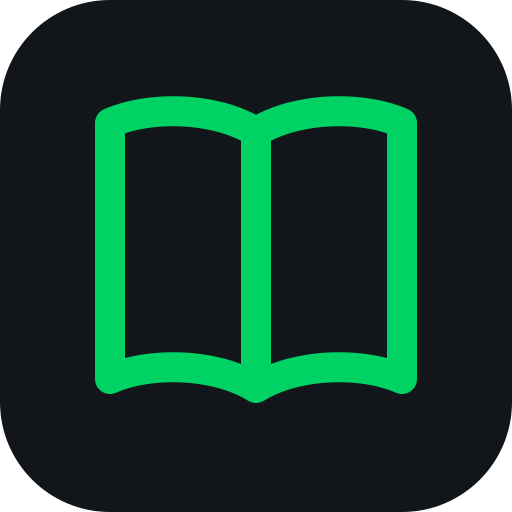
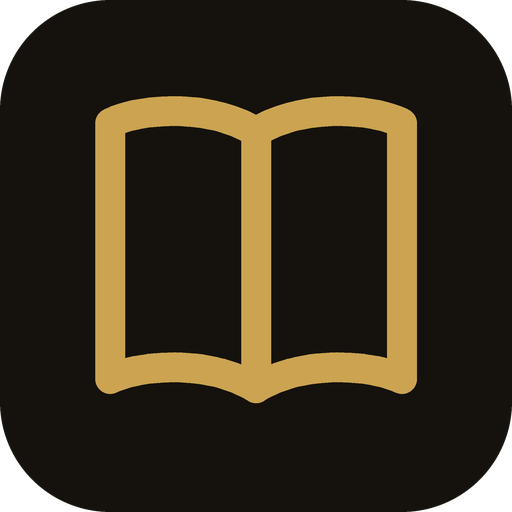
Assets de marque à l'identité Reliure : icônes PWA + image de partage
Fin de l'angle mort signalé par l'audit — seul le favicon SVG était à jour, tout le
reste (install PWA, aperçus sociaux, notifications) servait encore le vert néon.

- icon-192 / icon-512 / icon-maskable-512 / apple-touch-icon régénérés : livre
  ouvert doré (#cba351) sur noir chaud (#15120d), rasterisés en Python/PIL depuis
  la géométrie d'icon.svg (les axes de Bézier échantillonnés) — pas de dépendance,
  déterministe. Maskable avec zone sûre à 66 %, apple sans arrondi (iOS masque).
- og.png (1200×630) refait en Reliure : dégradé noir chaud, marque « Tome. » +
  livre doré, titre serif (« journal » en italique doré), sous-titre, eyebrow
  « LIVRES · BD · MANGA », montome.fr, filet doré.
- sw.js : CACHE tome-v10 → v11 (les assets ont changé) ; fetch durci — timeout
  réseau 4 s (repli cache rapide) et cache.put rattaché à e.waitUntil (plus de
  perte d'écriture si le worker est tué).

Vérifié : icônes rendues (livre doré net, capture), og.png rendu, selftest 83/83.

Changed region(s): [[0.1875, 0.1875, 0.8125, 0.7812]]

diff --git a/sw.js b/sw.js
@@ -1,7 +1,7 @@
 /* Service worker de Tome — cache l'app pour l'usage hors ligne.
    Incrémenter CACHE à chaque déploiement : déclenche 'updatefound' côté page,
    qui affiche le bandeau « Nouvelle version — Recharger ». */
-const CACHE = 'tome-v10';
+const CACHE = 'tome-v11';
 const CACHE_PREFIX = 'tome-';
 // Caches d'AVANT l'éclatement du single-file (index.html contenait tout le CSS/JS).
 const PRE_SPLIT = /^tome-v[1-8]$/;
@@ -47,21 +47,28 @@ self.addEventListener('fetch', e => {
   if (e.request.method !== 'GET' || url.origin !== location.origin) return;
   // l'API (même origine en prod) ne doit JAMAIS passer par le cache : données privées et volatiles
   if (url.pathname.startsWith('/api/')) return;
-  // réseau d'abord (pour récupérer les mises à jour), cache en secours hors ligne
-  e.respondWith(
-    fetch(e.request)
-      .then(res => {
-        if (res.ok) {
-          const copy = res.clone();
-          caches.open(CACHE).then(c => c.put(e.request, copy)).catch(() => {});
-        }
-        return res;
-      })
-      .catch(async () =>
-        (await caches.match(e.request, { ignoreSearch: true })) ||
-        (e.request.mode === 'navigate' ? await caches.match('./index.html') : Response.error())
-      )
-  );
+  // Réseau d'abord (pour les mises à jour), cache en secours. Timeout de 4 s : sur un réseau
+  // très mauvais on bascule vite sur le cache au lieu d'attendre indéfiniment.
+  const fromCache = async () =>
+    (await caches.match(e.request, { ignoreSearch: true })) ||
+    (e.request.mode === 'navigate' ? await caches.match('./index.html') : Response.error());
+  e.respondWith((async () => {
+    let res;
+    try {
+      res = await Promise.race([
+        fetch(e.request),
+        new Promise((_, rej) => setTimeout(() => rej(new Error('timeout')), 4000)),
+      ]);
+    } catch (_) {
+      return fromCache();
+    }
+    if (res && res.ok) {
+      const copy = res.clone();
+      // rattaché à waitUntil : le worker ne peut pas être tué avant la fin de l'écriture du cache
+      e.waitUntil(caches.open(CACHE).then(c => c.put(e.request, copy)).catch(() => {}));
+    }
+    return res;
+  })());
 });
 
 /* ---------- Notifications push ----------
